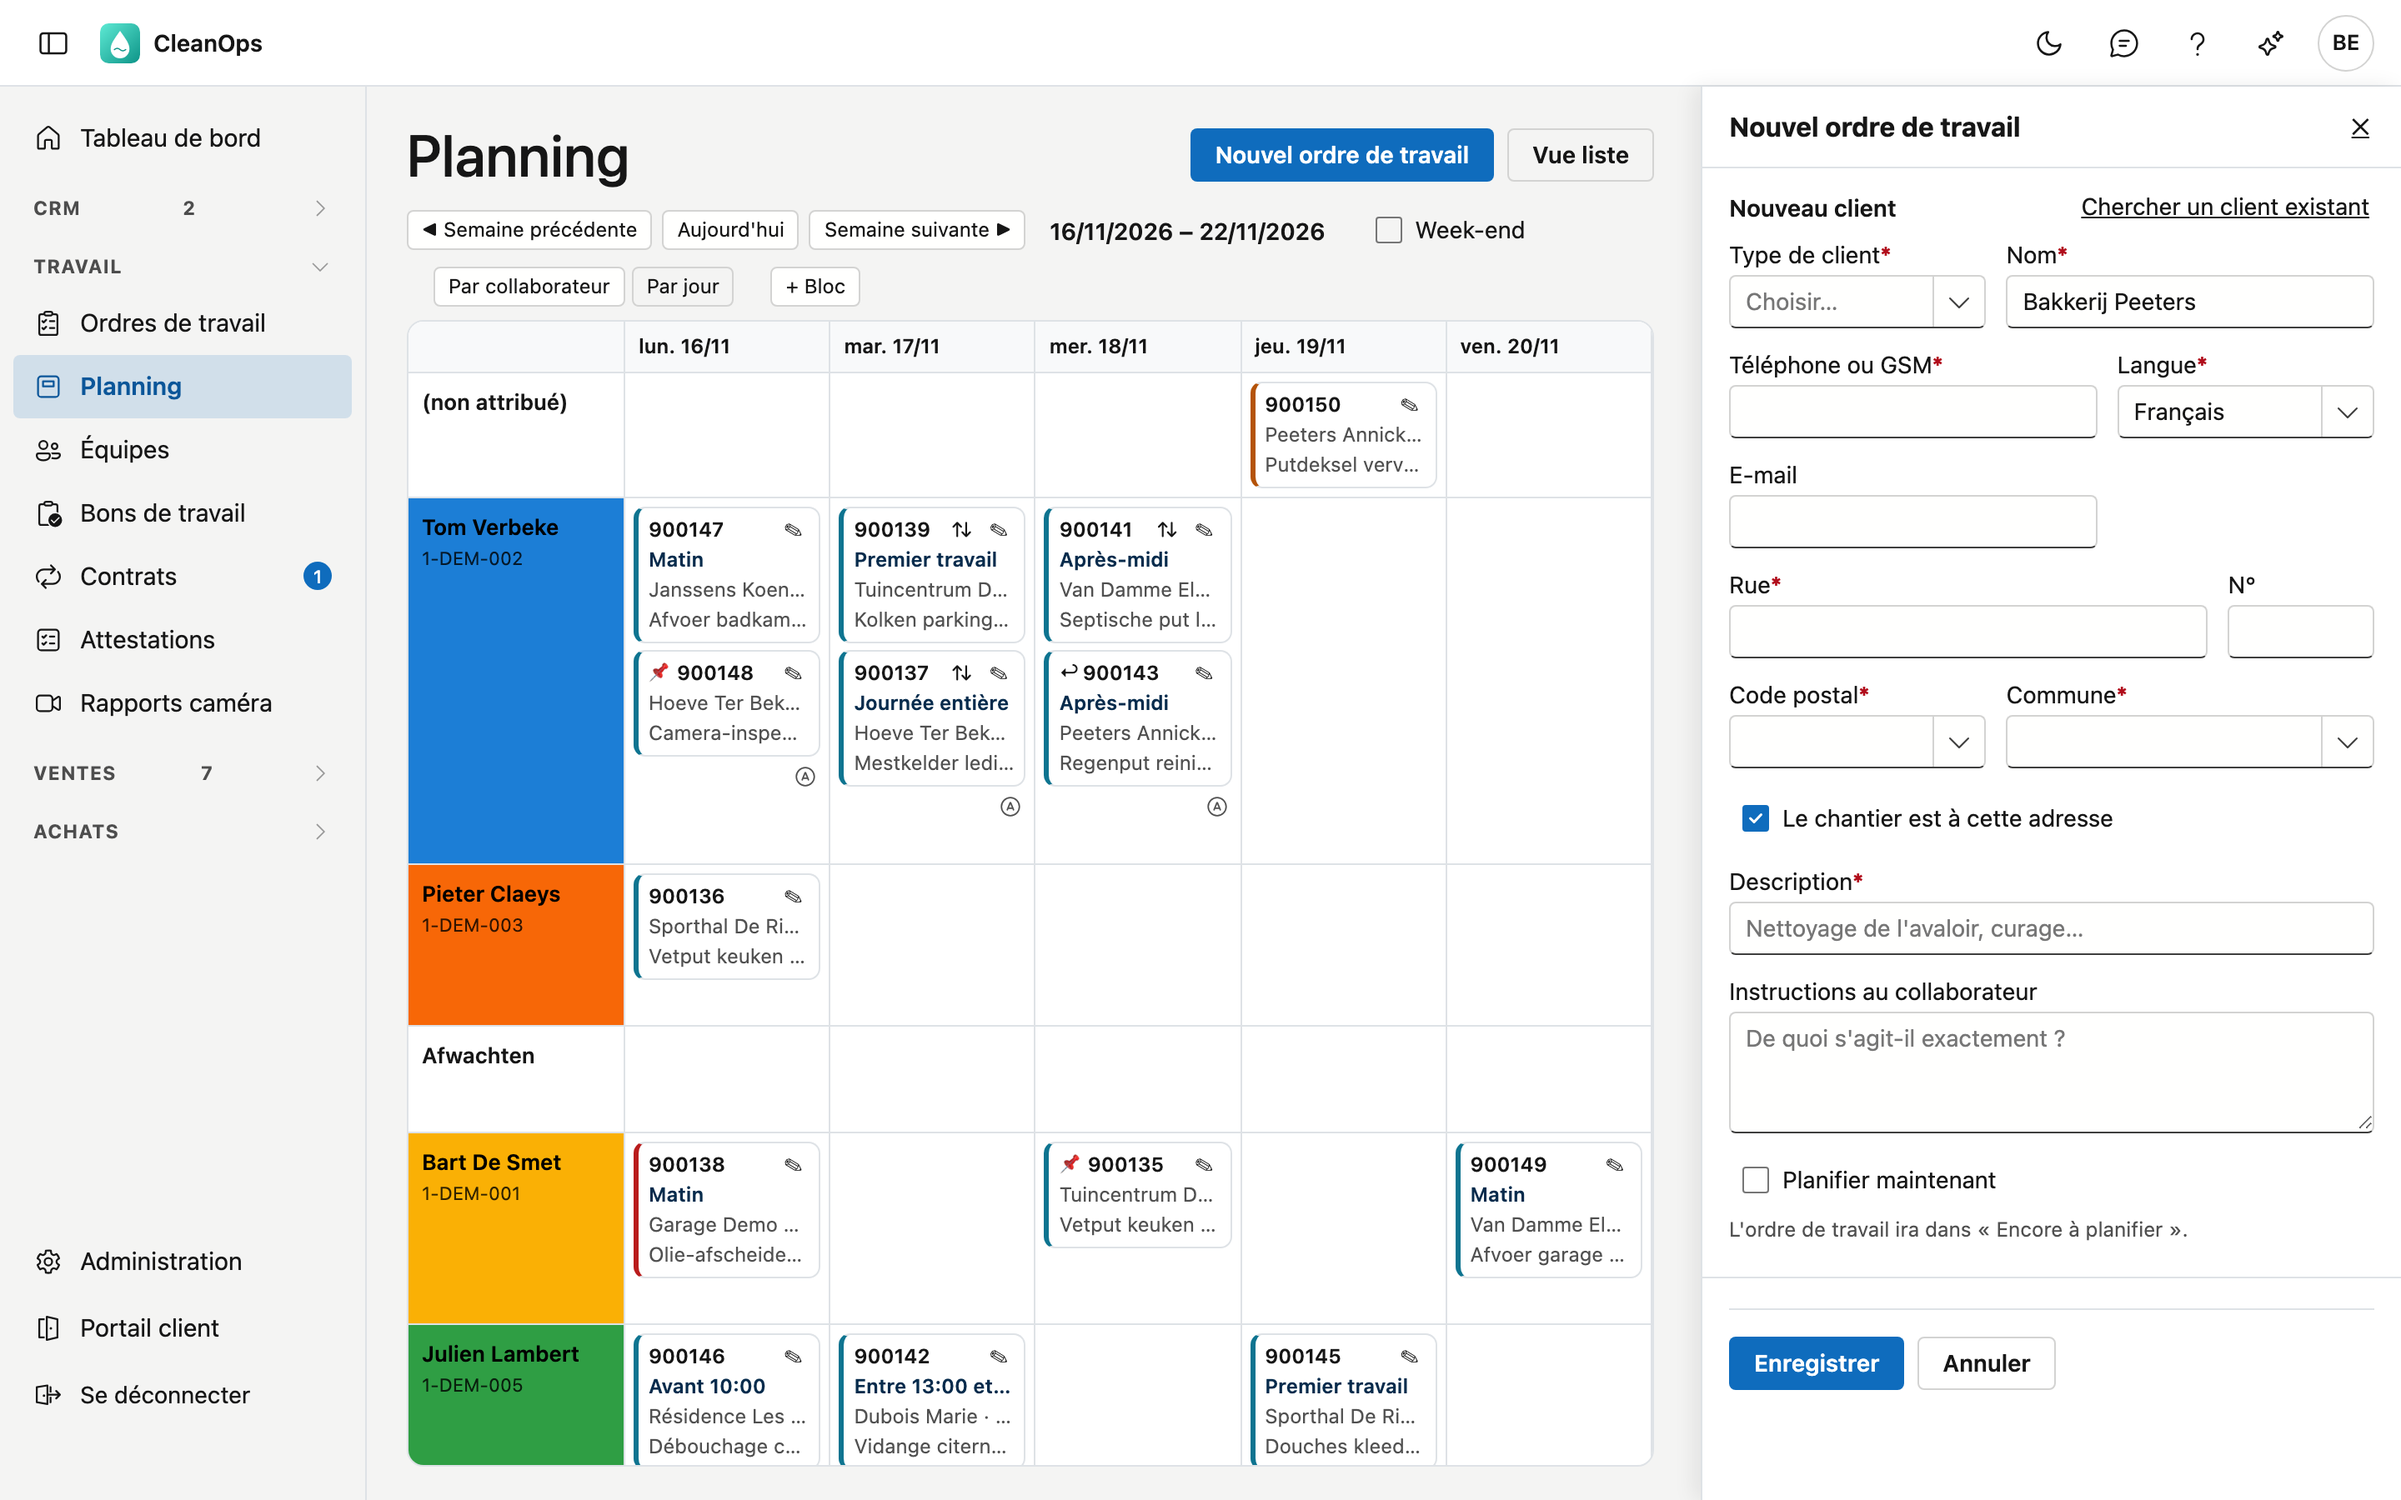
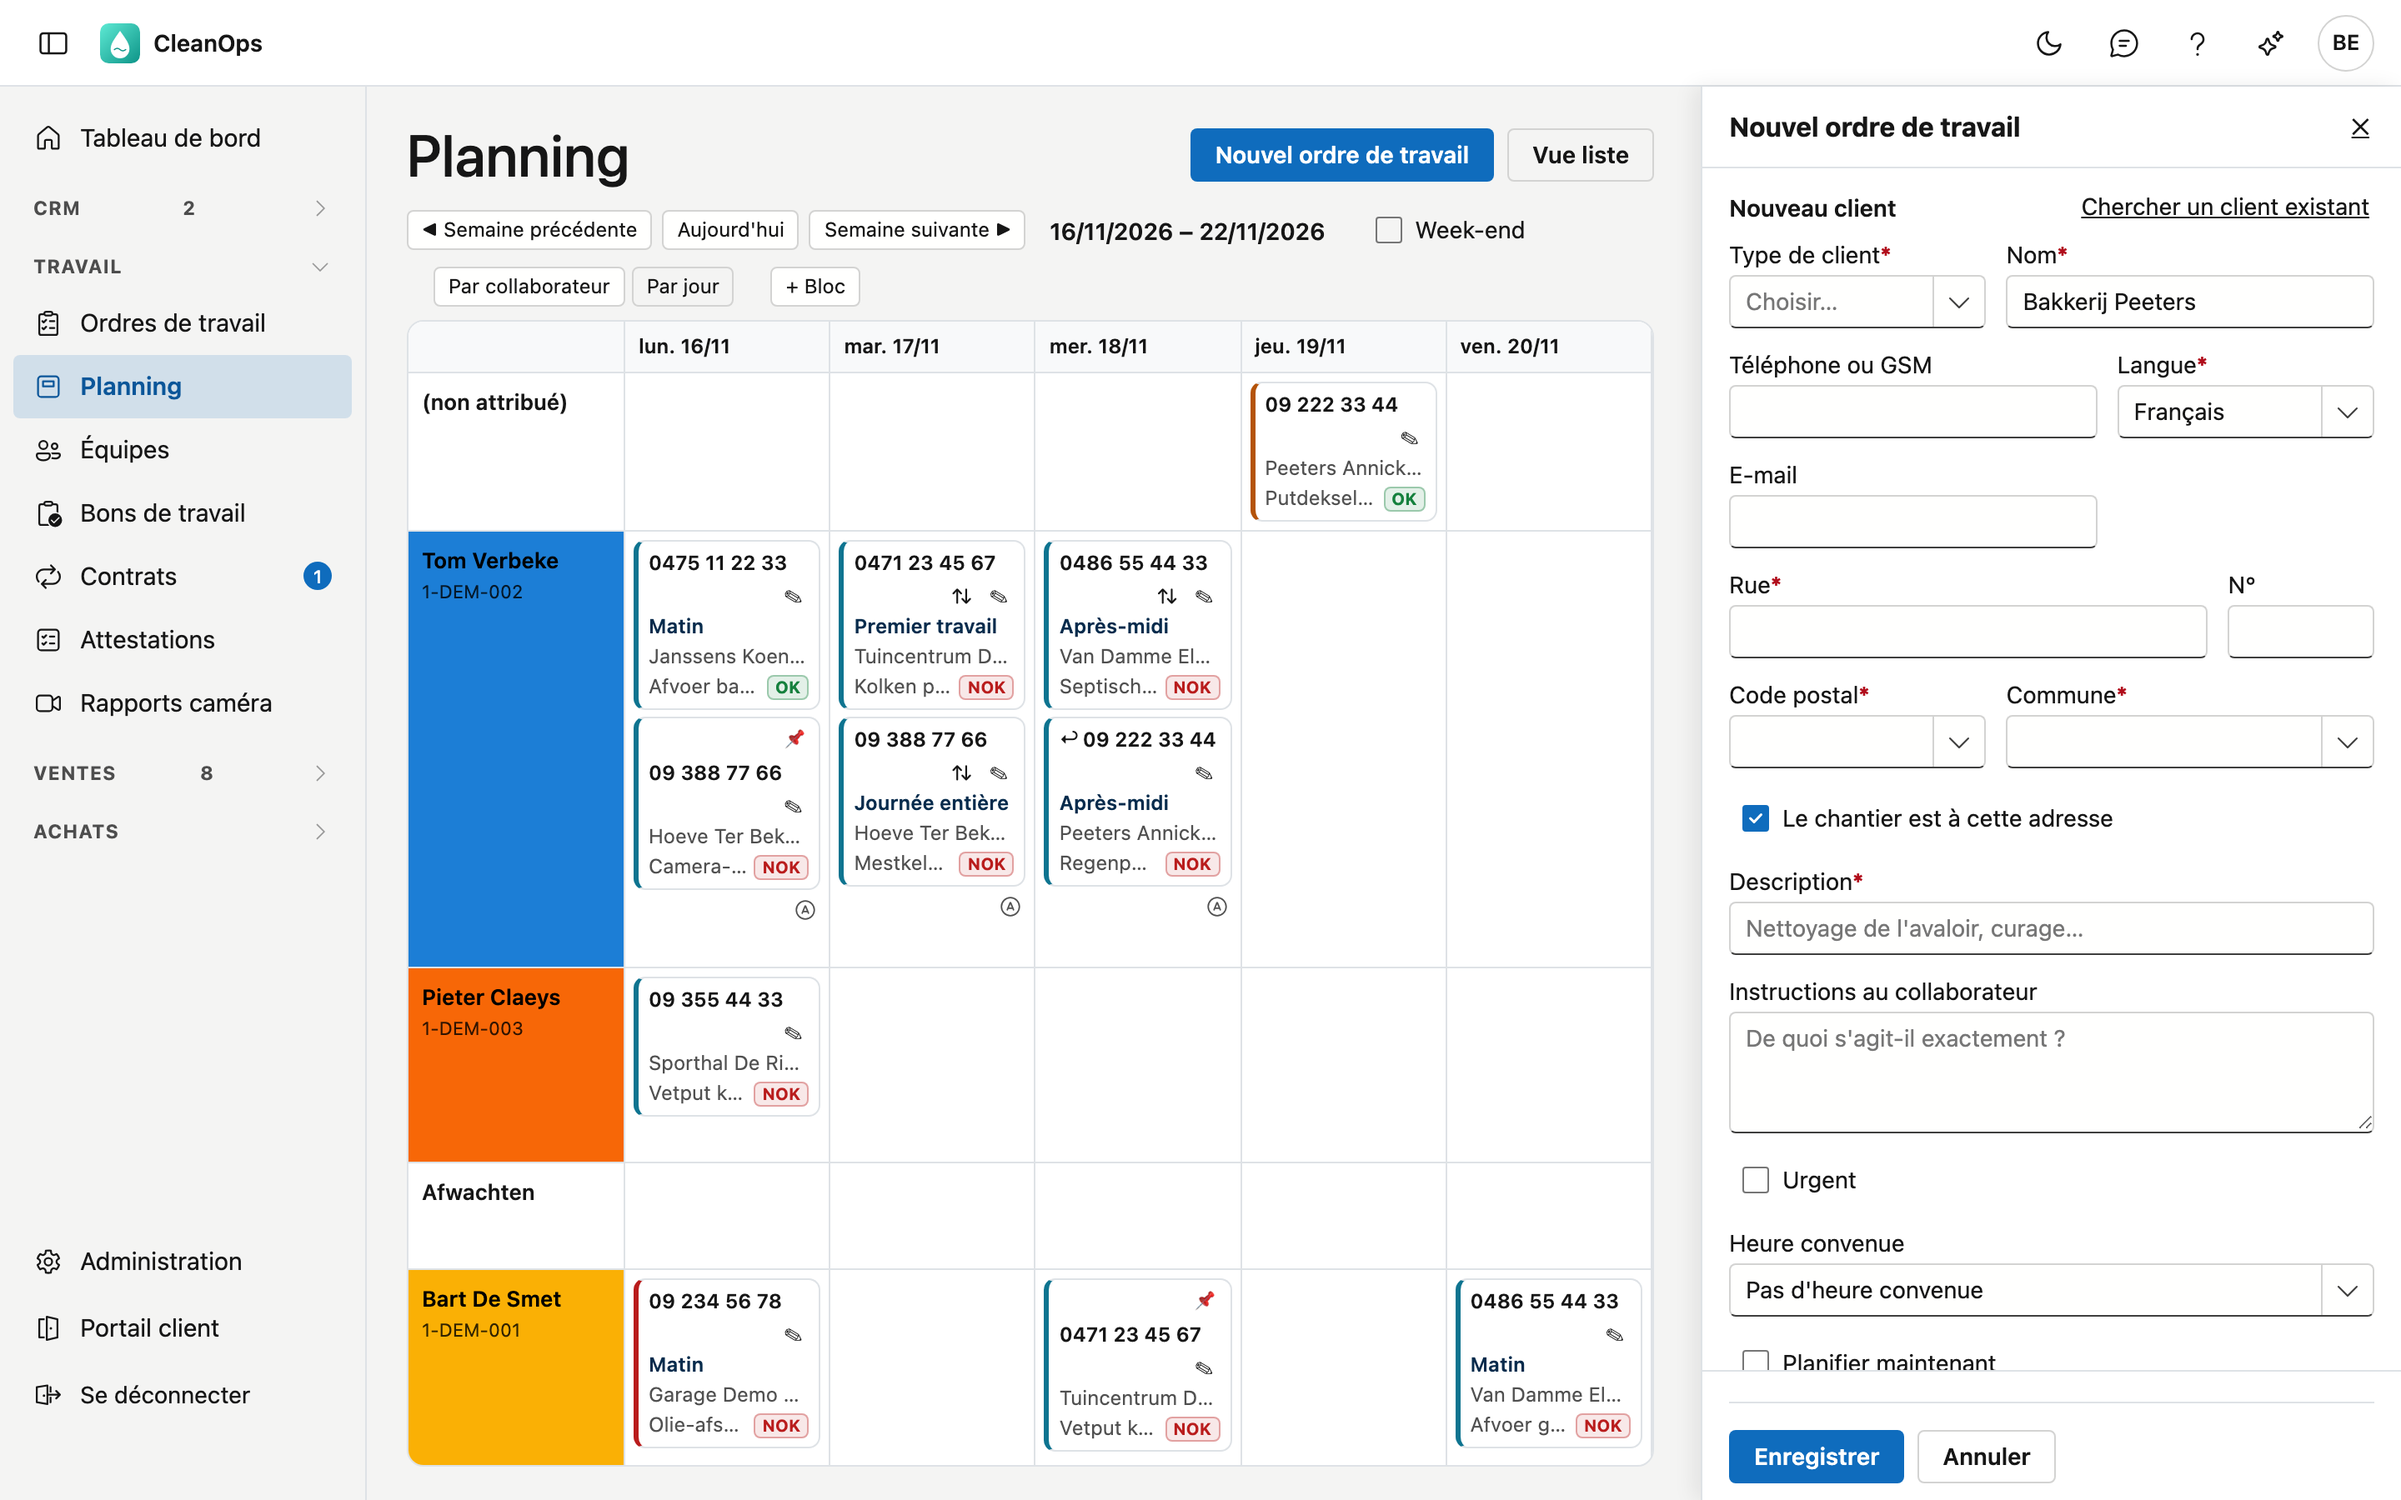
Telefoon of gsm mag leeg bij een nieuwe klant (Dominique 13/11/2026, feedback van de Nederlandse klant)
Planning en app/kantoor-werkorders NL/FR: het sterretje weg en "mag leeg". Het beeld planning-paneel (NL+FR) opnieuw gemaakt:
het opschrift Telefoon of gsm draagt geen rood sterretje meer.

Changed region(s): [[0.1562, 0.2489, 0.6875, 0.9956], [0.7188, 0.7778, 0.9062, 0.9956], [0.4062, 0.7467, 0.5, 0.84]]

diff --git a/docs/app/kantoor-werkorders.fr.md b/docs/app/kantoor-werkorders.fr.md
@@ -74,7 +74,7 @@ travail**, et avec le droit **Modifier les clients** aussi pour un nouveau clien
 Touchez **Nouvel ordre** en bas à droite : sur l'**Aperçu** ou le [Planning de la semaine](weekplanning.fr.md) et, à partir de la version 1.3.1, aussi sur cet écran et, si vous êtes également collaborateur, sur votre [planning](planning.fr.md). Le formulaire comporte quatre parties :
 
 1. **Client.** Cherchez par nom, téléphone, commune ou numéro de client. Si le client n'y figure pas, touchez **Nouveau client :** suivi de ce que vous avez tapé. Un nom
-   va dans le champ Nom, un numéro dans le champ **Téléphone ou GSM**. À partir de la version 1.3.3, vous indiquez aussi l'**adresse e-mail** (peut rester vide). Choisissez **Particulier** ou **Entreprise** et remplissez l'adresse. Pour une entreprise,
+   va dans le champ Nom, un numéro dans le champ **Téléphone ou GSM** (peut rester vide). À partir de la version 1.3.3, vous indiquez aussi l'**adresse e-mail** (peut rester vide). Choisissez **Particulier** ou **Entreprise** et remplissez l'adresse. Pour une entreprise,
    **Récupérer** reprend le nom et l'adresse de la BCE. Le numéro de TVA peut rester vide, mais sans numéro, CleanOps ne crée pas encore de facture.
 2. **Adresse.** Pour un client existant, vous choisissez l'une de ses adresses. Si le chantier est ailleurs, activez **Le chantier est à une autre adresse**.
 3. **Travail.** La **description** figure sur la facture et compte au plus 35 caractères. Ce dont il s'agit exactement va dans les **instructions**, que l'équipe lit.

diff --git a/docs/app/kantoor-werkorders.md b/docs/app/kantoor-werkorders.md
@@ -71,7 +71,7 @@ met het recht **Klanten bewerken** ook voor een nieuwe klant. U hebt een verbind
 Tik rechtsonder op **Nieuwe werkorder**: op het **Overzicht** of de [Weekplanning](weekplanning.md), en vanaf versie 1.3.1 ook op dit scherm en, als u ook medewerker bent, op uw [planning](planning.md). Het formulier heeft vier delen:
 
 1. **Klant.** Zoek op naam, telefoon, gemeente of klantnummer. Staat de klant er niet tussen, tik dan op **Nieuwe klant:** gevolgd
-   door wat u typte. Een naam komt in het veld Naam, een nummer in het veld **Telefoon of gsm**. Vanaf versie 1.3.3 vult u ook het **e-mailadres** in (mag leeg). Kies **Particulier** of **Bedrijf** en vul het adres in.
+   door wat u typte. Een naam komt in het veld Naam, een nummer in het veld **Telefoon of gsm** (mag leeg). Vanaf versie 1.3.3 vult u ook het **e-mailadres** in (mag leeg). Kies **Particulier** of **Bedrijf** en vul het adres in.
    Bij een bedrijf haalt **Ophalen** de naam en het adres uit de KBO. Het btw-nummer mag leeg blijven, maar zonder nummer maakt CleanOps nog geen factuur.
 2. **Adres.** Bij een bestaande klant kiest u een van zijn adressen. Ligt de werf ergens anders, zet dan **De werf ligt op een ander adres** aan.
 3. **Werk.** De **omschrijving** komt op de factuur en telt hoogstens 35 tekens. Waarover het precies gaat, zet u in de **instructies**, die de ploeg leest.

diff --git a/docs/planning.fr.md b/docs/planning.fr.md
@@ -69,7 +69,7 @@ modifier les clients.
 |---|---|
 | Type de client * | **Particulier** ou **Entreprise**. |
 | Nom * | Ce que vous avez tapé dans le champ de recherche s'y trouve déjà. |
-| Téléphone ou GSM * | Un seul numéro : un numéro de GSM va dans **GSM**, un autre dans **Téléphone**. |
+| Téléphone ou GSM | Peut rester vide. Un seul numéro : un numéro de GSM va dans **GSM**, un autre dans **Téléphone**. |
 | Langue * | La langue des documents pour ce client. |
 | E-mail | Peut rester vide. Une adresse invalide empêche l'enregistrement. |
 | Numéro de TVA | Uniquement pour une entreprise, et il peut rester vide. Avec **Rechercher**, CleanOps montre ce que la BCE sait, et vous reprenez le nom et l'adresse. |

diff --git a/docs/planning.md b/docs/planning.md
@@ -65,7 +65,7 @@ met het recht om werkorders te wijzigen, en een nieuwe klant of adres vraagt ook
 |---|---|
 | Soort klant * | **Particulier** of **Bedrijf**. |
 | Naam * | Wat u in het zoekveld typte, staat hier al. |
-| Telefoon of gsm * | Eén nummer: een gsm-nummer komt bij **Gsm**, een ander bij **Telefoon**. |
+| Telefoon of gsm | Mag leeg. Eén nummer: een gsm-nummer komt bij **Gsm**, een ander bij **Telefoon**. |
 | Taal * | De taal van de documenten voor deze klant. |
 | E-mail | Mag leeg. Een ongeldig adres houdt het bewaren tegen. |
 | Btw-nummer | Enkel bij een bedrijf, en het mag leeg. Met **Ophalen** toont CleanOps wat de KBO weet, en neemt u naam en adres over. |
